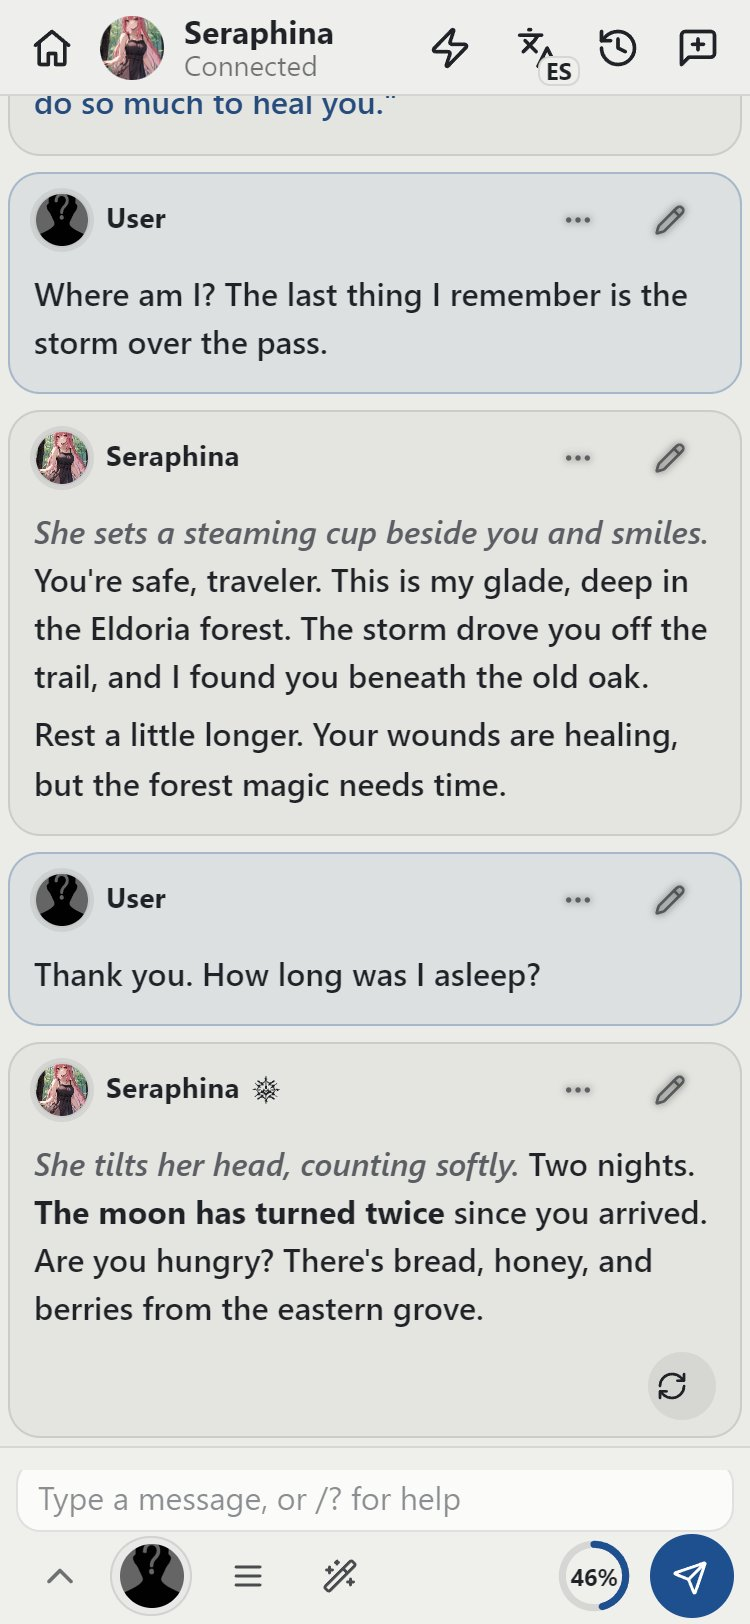
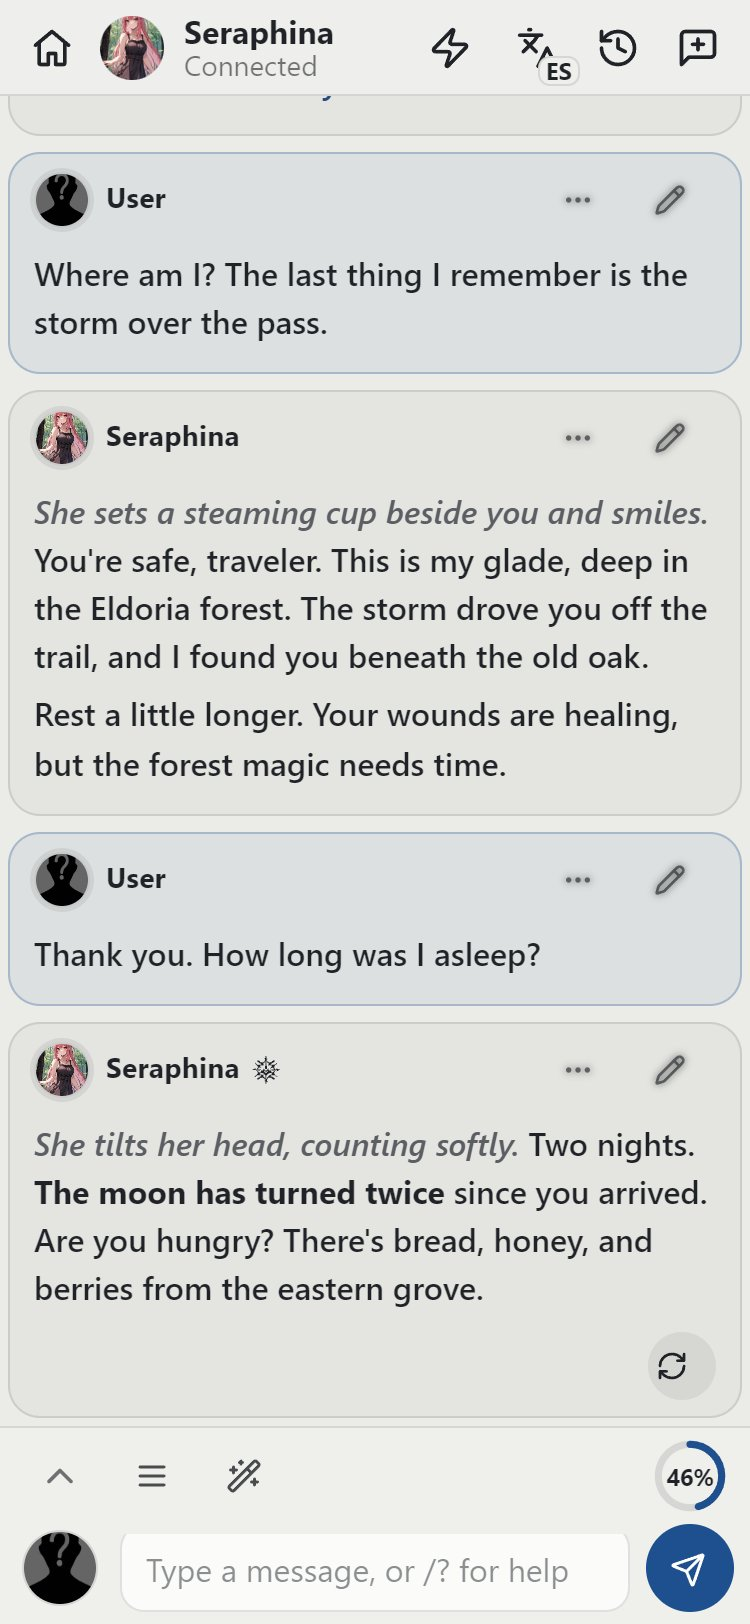
Pocket Tavern 2.18.1: docked message box redone like a messaging app
Persona, text field and Send in one row at the bottom, the other tools in a row above,
Send level with the field as it grows, room above the bottom edge.

diff --git a/style.css b/style.css
@@ -8233,8 +8233,9 @@ html.stmui-chat.stmui-compact #send_textarea {
 }
 
 /* ==========================================================================
-   Docked message box (html.stmui-docked): flat along the bottom edge, like a
-   messaging app, instead of floating over the chat.
+   Docked message box (html.stmui-docked): a bar along the bottom edge, like a
+   messaging app. The text field sits at the bottom between your persona and
+   Send, where the thumb is; the other tools sit in a row above it.
    ========================================================================== */
 
 html.stmui-chat.stmui-docked #form_sheld {
@@ -8244,17 +8245,20 @@ html.stmui-chat.stmui-docked #form_sheld {
 
 html.stmui-chat.stmui-docked #send_form,
 html.stmui-chat.stmui-docked #send_form:focus-within {
-    padding: 8px calc(8px + var(--stmui-safe-right)) 4px calc(8px + var(--stmui-safe-left));
+    position: relative;
+    padding: 4px calc(8px + var(--stmui-safe-right)) 8px calc(8px + var(--stmui-safe-left));
     border: 0 !important;
     border-top: 1px solid var(--stmui-line) !important;
     border-radius: 0;
+    /* The same surface as the tab bar, so with the tabs out they read as one bottom bar. */
     background: color-mix(in srgb, var(--stmui-surface) 97%, transparent) !important;
     box-shadow: none;
 }
 
-/* The text gets its own field inside the bar; it shows the focus instead of the bar. */
+/* The text gets its own field; it shows the focus instead of the bar. */
 html.stmui-chat.stmui-docked #send_textarea {
-    padding: 9px 12px 7px;
+    min-height: 44px;
+    padding: 11px 12px 9px;
     border: 1px solid var(--stmui-line);
     border-radius: 12px;
     background: var(--stmui-raised) !important;
@@ -8265,14 +8269,80 @@ html.stmui-chat.stmui-docked #send_textarea:focus {
     border-color: color-mix(in srgb, var(--stmui-accent) 38%, var(--stmui-line));
 }
 
-html.stmui-chat.stmui-docked.stmui-compact #send_form,
-html.stmui-chat.stmui-docked.stmui-compact #send_form:focus-within {
-    padding-top: 6px;
-    padding-bottom: 2px;
+/* Portrait: tools on top, then persona, field and Send in one row at the bottom.
+   (A phone held sideways keeps the single row it already has.) */
+@media not all and (orientation: landscape) and (max-height: 520px) and (min-aspect-ratio: 3/2) {
+    html.stmui-chat.stmui-docked #nonQRFormItems {
+        position: static;
+        grid-template-areas:
+            "left gap right"
+            "text text text";
+        row-gap: 4px;
+    }
+
+    html.stmui-chat.stmui-docked :is(#leftSendForm, #rightSendForm) {
+        position: static;
+    }
+
+    /* Room on both sides of the field for the persona picture and Send. */
+    html.stmui-chat.stmui-docked #send_textarea {
+        width: auto;
+        margin-inline: 52px;
+    }
+
+    /* Your persona: its picture, at the start of the bottom row (the name is in its label). */
+    html.stmui-chat.stmui-docked #send_form .stmui-persona-chip {
+        position: absolute;
+        bottom: 8px;
+        inset-inline-start: calc(8px + var(--stmui-safe-left));
+        justify-content: center;
+        width: 44px;
+        max-width: none;
+        height: 44px;
+        margin: 0;
+        padding: 0;
+        border: 0;
+        background: transparent;
+    }
+
+    html.stmui-chat.stmui-docked #send_form .stmui-persona-chip::after {
+        inset: 0;
+    }
+
+    html.stmui-chat.stmui-docked #send_form .stmui-persona-name {
+        display: none;
+    }
+
+    html.stmui-chat.stmui-docked #send_form .stmui-persona-img {
+        width: 36px;
+        height: 36px;
+        box-shadow: 0 0 0 1px var(--stmui-line);
+    }
+
+    /* Send (and Stop while a reply is coming) at the end of the bottom row, level with the field. */
+    html.stmui-chat.stmui-docked #send_form #rightSendForm > :is(#send_but, .mes_stop) {
+        position: absolute;
+        bottom: 8px;
+        inset-inline-end: calc(8px + var(--stmui-safe-right));
+        width: 44px;
+        height: 44px;
+        margin: 0;
+    }
 }
 
-html.stmui-chat.stmui-docked.stmui-compact #send_textarea {
-    padding: 7px 10px 5px;
+html.stmui-chat.stmui-docked.stmui-compact #send_form,
+html.stmui-chat.stmui-docked.stmui-compact #send_form:focus-within {
+    padding-top: 2px;
+    padding-bottom: 6px;
+}
+
+html.stmui-chat.stmui-docked.stmui-compact #send_form .stmui-persona-chip,
+html.stmui-chat.stmui-docked.stmui-compact #send_form #rightSendForm > :is(#send_but, .mes_stop) {
+    bottom: 6px;
+}
+
+html.stmui-chat.stmui-docked.stmui-compact #nonQRFormItems {
+    row-gap: 2px;
 }
 
 /* ==========================================================================

diff --git a/changelog.js b/changelog.js
@@ -1,6 +1,13 @@
 /** Shown in More → What's new, and once after each update. Newest first. */
 export const CHANGES = [
     {
+        version: '2.18.1',
+        items: [
+            "The docked message box is redone like a messaging app: your persona, the text field and Send in one row at the bottom, with the other tools in a row above.",
+            "Send stays level with the field as your message grows, and the bar has room above the bottom edge.",
+        ],
+    },
+    {
         version: '2.18.0',
         items: [
             "In a chat the bottom tabs tuck away, so they are not right under the message box. Tap the arrow in the message box to bring them back.",

diff --git a/DESIGN.md b/DESIGN.md
@@ -95,7 +95,7 @@ On whenever Pocket Tavern is on (Automatic covers computers; **Phones only** kee
 ## Size, message box and tucked tabs
 
 - **Compact (`html.stmui-compact`):** top bar 48px, tab bar 52px, header picture 28px, name 14px, card padding 8 / 12px and 4px between cards, message line height 1.5. The chat text size itself does not change (that is the Chat text size setting). Every tap area stays 44px: buttons overlap the card padding with negative margins rather than shrinking. **Automatic** picks Compact when the screen's short side is under 380px (`SMALL_PHONE_BELOW`), read from `screen`, never the window, so the keyboard cannot flip it.
-- **Docked (`html.stmui-docked`):** the message box is a flat bar (hairline on top, the tab bar's surface, no radius, no shadow), and the text gets its own field (`--stmui-raised`, 12px radius) that shows the focus.
+- **Docked (`html.stmui-docked`):** the message box is a flat bar (hairline on top, the tab bar's surface, no radius, no shadow, 8px above the bottom edge). In portrait the bottom row is persona picture (44px, name in its label), the text field (`--stmui-raised`, 12px radius, 44px tall, shows the focus) and Send (44px), with persona and Send pinned level with the field's bottom as it grows; the other tools are a 44px row above. A phone held sideways keeps one row. SillyTavern's Send is placed with `position: absolute`, never moved in the DOM.
 - **Tucked tabs (`html.stmui-tabs-tucked`):** in a chat on the phone layout the tab bar slides down and is `visibility: hidden` once gone. The arrow is the first button in the message box's tool row (44px, `--stmui-muted`, `aria-expanded`, `aria-controls`), and it flips to point down while the tabs are out. They tuck again on typing, scrolling the chat by hand, tapping Chat, or changing chats. Never on pages, the start screen or the desktop layout.
 - **Medium screens (760px and up, not the desktop layout):** message cards and the floating box are a centred column, at most 720px.
 

diff --git a/README.md b/README.md
@@ -63,7 +63,7 @@
 
 ### Chatting
 - **Messages made for a phone:** the text runs across the whole card, edge to edge. The picture, name and date sit in a small header, swipes in a small ‹ 1/3 › pill (the last one offers a new version), and the model's thinking folds into a neat box you can open. Cards, bubbles or flat. Drag the last reply sideways to swipe.
-- **A floating or docked message box:** Floating floats over the chat, so messages scroll on behind it; Docked sits flat along the bottom edge like a messaging app. Your text gets the whole width, with the tools in a row underneath. Your persona sits there as a little picture with your name: tap it to switch who you are, or to edit your persona's name and description on the spot.
+- **A floating or docked message box:** Floating floats over the chat, so messages scroll on behind it; Docked is a bar along the bottom edge like a messaging app, with your persona, the text field and Send in one row. Your text gets the whole width, with the tools in a row underneath. Your persona sits there as a little picture with your name: tap it to switch who you are, or to edit your persona's name and description on the spot.
 - **Context ring:** a ring in the message box fills up as the chat uses more of the model's memory. Tap it for the Context page: what filled it (character, lorebooks, examples, chat history), how much room is left, the model and preset, and the full prompt.
 - **Edit on a full page:** tap ✎ and the message opens full screen, with Save right above the keyboard.
 - **Search this chat:** find any word in the conversation and jump between matches.

diff --git a/CHANGELOG.md b/CHANGELOG.md
@@ -1,5 +1,15 @@
 # Changelog
 
+## 2.18.1
+
+The **Docked** message box, redone. In 2.18.0 it was the floating box flattened: the field on top, every tool and Send in a row under it, pressed against the bottom edge, and Send far from the text.
+
+- **One row at the bottom, like a messaging app:** your persona's picture, the text field, and Send right beside it. The field and Send are where your thumb is, and Send stays level with the bottom of the field as your message grows.
+- **The other tools in a row above:** the tabs arrow, ☰, the wand, anything extensions add, and the context ring.
+- The bar has 8px of room above the bottom edge, a clear line between it and the chat, and the same surface as the tab bar, so with the tabs out they read as one bottom bar.
+- A phone held sideways keeps a single row. The desktop layout uses the same docked bar in the chat column.
+- The phone test checks that persona, field and Send share the bottom row and that Send is clear of the edge.
+
 ## 2.18.0
 
 Fixes and changes from the first round of feedback on Reddit.
